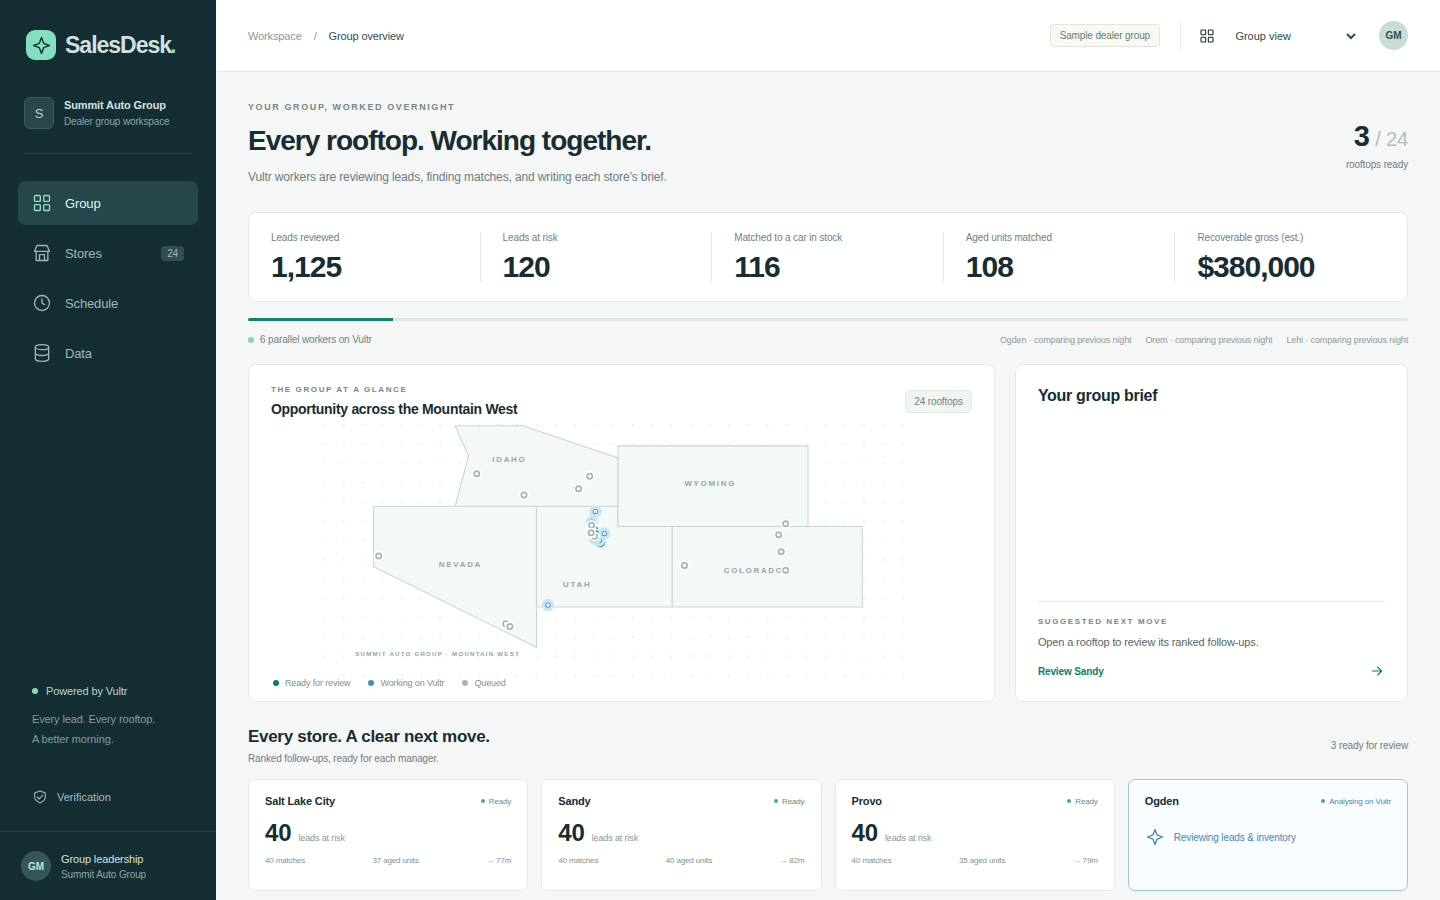
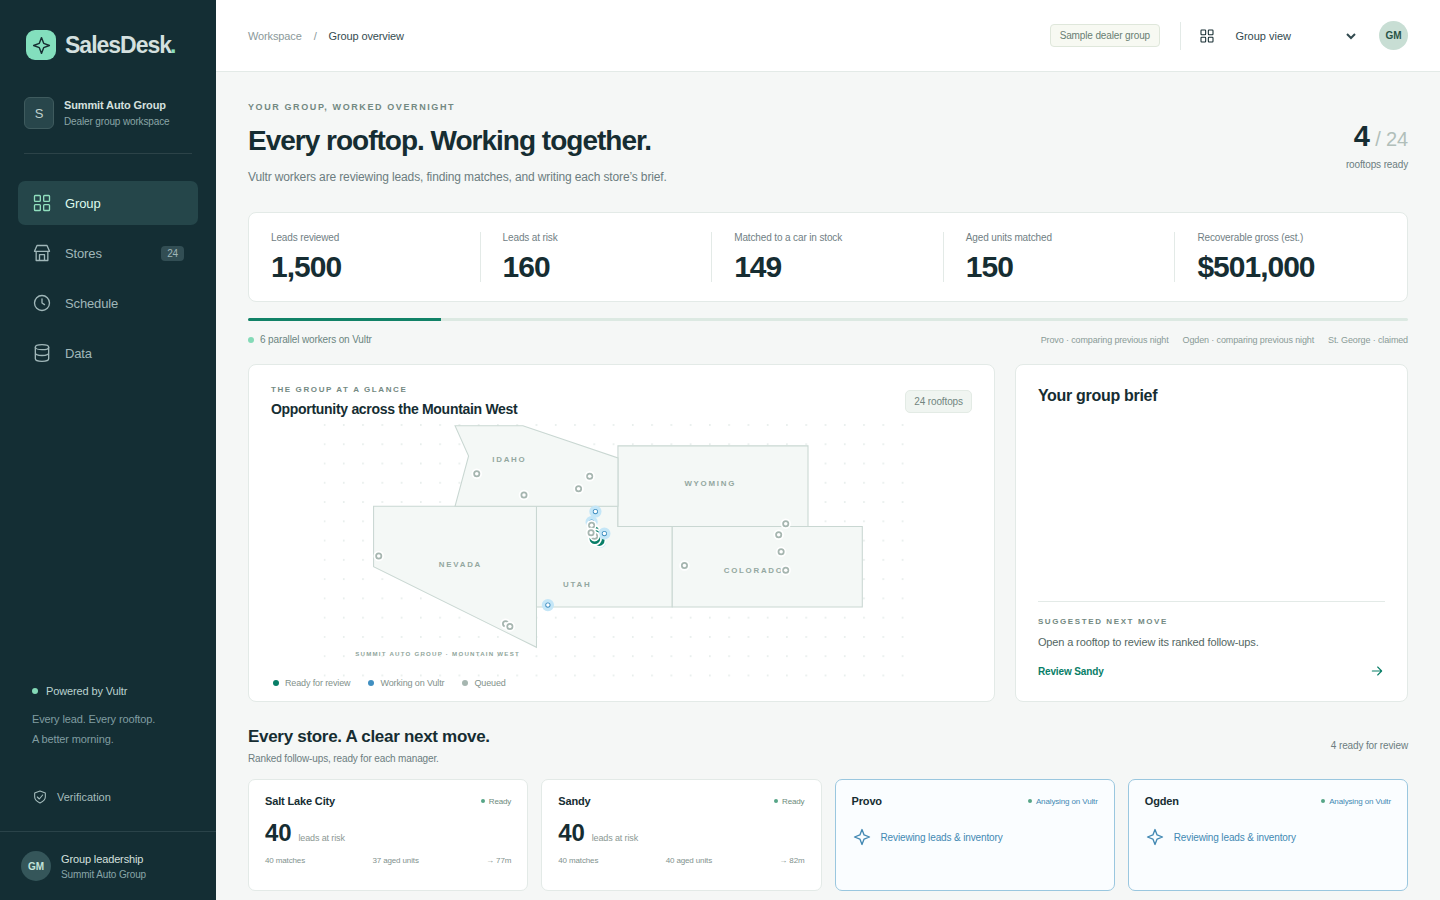
fix(ui): allow fresh exports after skipping approved follow-ups

diff --git a/frontend/src/dealer-store.tsx b/frontend/src/dealer-store.tsx
@@ -651,6 +651,9 @@ export function StoreView({
   const edited = rows.find((row) => row.id === editing);
   const pending = rows.filter((row) => row.status === "pending");
   const handoff = data.handoffs.find((h) => h.rooftop_id === roof.id);
+  const availableRows = rows.filter((row) => row.status !== "skipped");
+  const needsHandoff =
+    pending.length > 0 || !handoff || handoff.status === "failed";
   const approve = (items: Followup[]) =>
     void action(() =>
       post(`/api/dealer/stores/${roof.id}/approve`, {
@@ -687,8 +690,8 @@ export function StoreView({
           <button
             className="d-primary"
             style={modal ? { visibility: "hidden" } : undefined}
-            disabled={busy || !pending.length}
-            onClick={() => approve(pending)}
+            disabled={busy || !availableRows.length || !needsHandoff}
+            onClick={() => approve(availableRows)}
           >
             <Icon name="check" size={15} />
             Approve all for {storeName(roof.name)}

diff --git a/scripts/check_dealer_browser.py b/scripts/check_dealer_browser.py
@@ -14,7 +14,7 @@ from backend.app.execution.runner import command
 def main():
     parser = argparse.ArgumentParser()
     parser.add_argument("--base-url", default="http://host.docker.internal:8011")
-    parser.add_argument("--screen", choices=["group", "store", "journey"], default="group")
+    parser.add_argument("--screen", choices=["group", "store", "handoff", "journey"], default="group")
     parser.add_argument("--output", default=".local/dealer-browser")
     args = parser.parse_args()
     output = Path(args.output)

diff --git a/STATUS.md b/STATUS.md
@@ -3,12 +3,13 @@
 Product name: **SalesDesk** (renamed from ProofDesk on 2026-11-05). Existing operational
 identifiers and dated historical entries retain their original names.
 
-Current checkpoint: **The compact demo UI is deployed and directly verified on public
-HTTPS.** SSH access worked on retry. The answer/draft heroes, single primary actions,
-compact activity and collapsed supporting detail are live; all four requested desktop
-screens and mobile have fresh deployed screenshots. Browser and real HTTP journey checks
-passed without frontend overrides. See docs/demo-readability.md. Video recording, PDF
-export and official submission remain open; no submission receipt exists.
+Current checkpoint: **The dealer-group product is deployed and directly verified on
+public HTTPS.** CSV ingestion, 24-rooftop fan-out, reconciled matching/KPIs, accepted
+Qwen briefs/replay, store approvals/exports, recurring schedules and the regional/store
+UI are implemented. Final full public run: **119.419 s**, six concurrent rooftop workers.
+Dealer inference: **51 live requests**, **$0.0223900** conservative token-cost estimate,
+**$0.1024896** reserved. Video recording, PDF export and official submission remain
+owner actions; no submission receipt exists.
 
 Public URL: https://salesdesk.149.28.51.139.sslip.io
 
@@ -1064,3 +1065,31 @@ allowing untrusted code. Select and evaluate Vultr models with an authorized cal
   ingestion case also passed in the final offline suite: **111 tests, 7 opt-in skips**.
   Frontend production build, retained mocked-browser journey, Ruff/formatting and repository
   checks passed. Final public release acceptance is recorded next.
+
+
+## Final dealer release verified: 2026-11-06
+
+- Release `a5fc406` installed; all 85 runtime hashes verified. Runtime archive SHA-256:
[1 lines of base64/hex data omitted]
+  Private auxiliary archive SHA-256:
[1 lines of base64/hex data omitted]
+  Existing records/credentials/ledgers preserved; saved sample now binds entered assumptions.
+- Final direct external HTTPS browser journey passed: **119.419 seconds** from Run click
+  to visible group brief. All 24 rooftop jobs and the parent succeeded; current/prior
+  snapshots really executed in Docker on Vultr. Sandy/Maria, exact approvals, three
+  downloads, reload, cross-session refusal, persisted schedule and mobile all passed.
+- Peak concurrent children **6**; observed controller/worker peak **641.59 MiB**; minimum
+  available VM RAM **2,682.91 MiB**. The unchanged per-container caps held on the existing
+  2-CPU / nominal 4-GiB EWR VM. No new instance or service was provisioned.
+- Public captures refreshed: Group, live run, Sandy, Maria, downloads, mobile. Final
+  evidence: `.local/dealer-final-public/` and `.local/deployment/dealer-final-vm-monitor.json`.
+  Test schedule was disabled after proving persistence; owner schedules are not needed
+  for acceptance. Runtime flags retain the legacy health status for compatibility and
+  separately report `product_surface=dealer_group_workspace` and concurrency six.
+- No paid requests in the deployed full reviews; all inference steps revalidated exact
+  accepted replay. Dealer accounting remains 51 live requests, 47 accepted responses,
+  four rejected/uncertain calls, $0.0143516 accepted usage plus $0.0080384 uncertainty,
+  $0.0223900 conservative estimate and $0.1024896 pessimistic reservations.
+- A final UI regression check covers re-preparing the remaining approved store queue
+  after skipping an already approved item. This only changes approval-action availability,
+  not the measured analysis engine or matching results.

diff --git a/README.md b/README.md
@@ -47,10 +47,10 @@ SQLite, scheduler and worker subprocesses behind Caddy. It has **2 logical CPUs*
 approximately **4 GiB RAM**. Default rooftop concurrency is **6**, configurable with
 `SALESDESK_DEALER_CONCURRENCY` (bounded to 1–12).
 
-The measured public full run took **108.396 seconds** from browser click to visible group
+The measured public full run took **119.419 seconds** from browser click to visible group
 result, with six concurrent rooftop jobs. Current and prior-night inputs executed in
-48 disposable containers. Observed application memory peaked at **581.55 MiB**; host
-available memory stayed above **2,755 MiB**. These are observed checks on this sample,
+48 disposable containers. Observed application memory peaked at **641.59 MiB**; host
+available memory stayed above **2,682 MiB**. These are observed checks on this sample,
 not capacity or performance promises. [STATUS.md](STATUS.md) records release-specific evidence.
 
 Vultr Serverless Inference runs **`qwen3.8-flash-next`**, JSON output, reasoning disabled.

diff --git a/docs/slides.md b/docs/slides.md
@@ -101,8 +101,8 @@ SMS and email with her CR-V trade → manager approval.
 | Group leaders ask each store for the picture | Regional map, store ranking and validated roll-up |
 | Preparation stops when the tab closes | Server-owned workers and recurring reviews |
 
-**Measured public full run: 108.396 seconds.** Six concurrent child jobs; observed application
-peak 581.55 MiB on the existing Vultr VM. [Release-specific observations](../STATUS.md).
+**Measured public full run: 119.419 seconds.** Six concurrent child jobs; observed application
+peak 641.59 MiB on the existing Vultr VM. [Release-specific observations](../STATUS.md).
 
 Human triage time and business uplift have not been measured; no time-saved ratio is claimed.
 

diff --git a/infra/README.md b/infra/README.md
@@ -27,7 +27,7 @@ copy; preserve existing exhausted ledgers. Local live acceptance was stopped bef
 spend authority was handed over. No credentials enter an archive or a Docker sandbox.
 
 A full direct public run succeeded with six concurrent children and an observed controller/
-worker peak of 581.55 MiB. See STATUS.md for release-specific elapsed time and memory.
+worker peak of 641.59 MiB. See STATUS.md for release-specific elapsed time and memory.
 Use `scripts.check_dealer_browser --screen journey` for direct acceptance; the legacy
 experiment journey remains an additional retained-route check.
 
